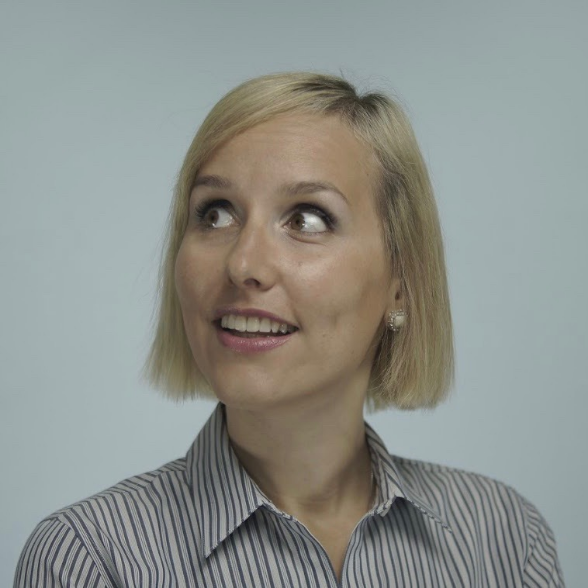
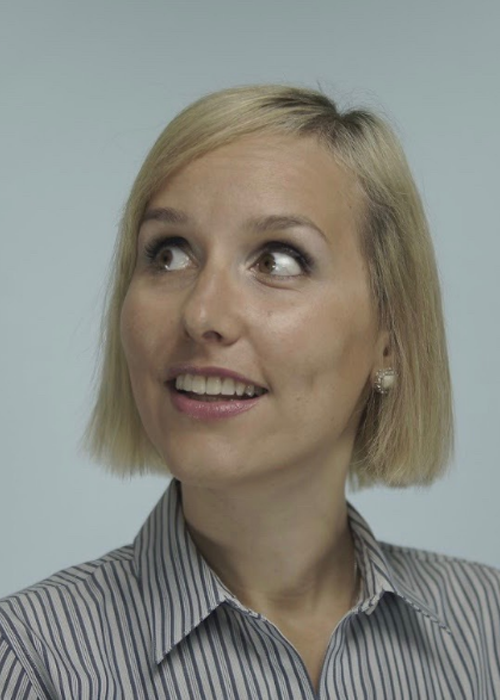
CGW-70: Old images were removed, new images were added.

diff --git a/_posts/2016-10-15-Tim-Byrne.md b/_posts/2016-10-15-Tim-Byrne.md
@@ -9,6 +9,6 @@ description: Director of Marketing
 twitter: https://twitter.com/timbyr
 linkedin: https://www.linkedin.com/in/timbyrne
 email:
-image: assets/images/team/new/TimByrne.jpg
+image: assets/images/team/TimByrne.png
 ---
 As the head of Cresca's Marketing Department, Tim wears many hats. Using a broad skill set developed over the course of an eclectic career, Tim provides strategic solutions and marketing guidance that drive revenue and growth. He is passionate about developing brand identities and delivering engaging creative. Prior to joining Cresca, campaigns he contributed to were recognized with multiple Best of NAMA awards from the National Agri-Marketing Association and two Silver Davey Awards from the Academy of Interactive & Visual Arts. Tim grew up in New York where his family owned several restaurants, sparking his fascination with different foods and cultures. He is a self-professed gastronome who enjoys exploring the ever-evolving Atlanta restaurant scene.

diff --git a/_posts/2016-10-15-Josh-Cunningham.md b/_posts/2016-10-15-Josh-Cunningham.md
@@ -9,6 +9,6 @@ description: Fulfillment Manager
 twitter:
 linkedin:
 email:
-image: assets/images/team/new/JoshCunningham.jpg
+image: assets/images/team/JoshCunningham.png
 ---
 Josh powers Cresca's fulfillment partner, and as the key strategic liaison between the two teams, he ensures that the logistics, warehousing and fulfillment information that Cresca needs to help its clients is readily available. His breakneck pace, constantly positive attitude and get-it-done-now approach are perfect for ensuring that the rhythm and cadence of domestic and international fulfillment continue to flow smoothly, rapidly and reliably. As an expert at Amazon Prime preparation, Josh oversees the efficient production and shipment of all of our clients' FBA freight. He really appreciates a well-architected inventory management solution, but his true passions are sports, music and going on trips that involve sleeping outdoors.

diff --git a/_posts/2016-10-15-Kane-McConnell.md b/_posts/2016-10-15-Kane-McConnell.md
@@ -9,6 +9,6 @@ description: VP of Information Technology
 twitter: https://twitter.com/kanemcconnell
 linkedin: https://www.linkedin.com/in/kanemcconnell
 email:
-image: assets/images/team/new/KaneMcConnell.jpg
+image: assets/images/team/KaneMcConnell.png
 ---
 Kane’s career in IT really started as a 9-year-old boy in Myrtle Beach, SC where his dad was a manager at the local Radio Shack. One weekend he brought home a ZX81, popped in a tape cassette and showed Kane how to access the command prompt. The rest, as they say, is history. Today, Kane not only leads the technology and development efforts at Cresca, he also serves as the director of LAMP Camp where he mentors a diverse group of aspiring developers who help in the creation of client applications. Kane is the proud owner of a Catalina 22 sailing yacht and in his spare time can often be found navigating the peaceful waters of Lake Lanier.

diff --git a/_posts/2016-10-15-Jonathan-Bradley.md b/_posts/2016-10-15-Jonathan-Bradley.md
@@ -9,6 +9,6 @@ description: Fulfillment Specialist
 twitter:
 linkedin:
 email:
-image: assets/images/team/new/JonathanBradley.jpg
+image: assets/images/team/JonathanBradley.png
 ---
 Jonathan's calm and collected nature and unwavering focus allow him to superbly see the process of order fulfillment through from start to finish. He greases the cogs of fulfillment, partnering with his customer service colleagues to ensure maximum customer satisfaction. There's nothing Jonathan hates more than a package shipped out more than 24 hours after an order is placed. Jonathan also loves animation, illustration and playing guitar. Everyone he meets considers him to be a pretty stand-up guy.

diff --git a/_posts/2016-10-15-Vincent-Hu.md b/_posts/2016-10-15-Vincent-Hu.md
@@ -9,6 +9,6 @@ description: Director of Finance
 twitter:
 linkedin:
 email:
-image: assets/images/team/new/VincentHu.jpg
+image: assets/images/team/VincentHu.png
 ---
 Vincent oversees all of the financial accounting and analysis for Cresca and its clients. With burgeoning operational responsibilities, he manages a team of software developers for the engineering of internal and client software solutions. He also develops applications to automate the handling of financial and operational business challenges. In his free time - or any time, really - Vincent loves playing and watching any form of sportsball.

diff --git a/_posts/2016-10-15-Karen-LaVoy.md b/_posts/2016-10-15-Karen-LaVoy.md
@@ -9,6 +9,6 @@ description: Customer Experience Manager
 twitter:
 linkedin:
 email:
-image: assets/images/team/new/KarenLaVoy.jpg
+image: assets/images/team/KarenLaVoy.png
 ---
 Karen believes that customer service is the backbone of any position, whether or not one connects directly with customers. All roles impact the overall customer experience. She finds it exhilarating to make connections with her colleagues and customers and turn their needs into satisfied realities. Karen supports local community theatre (Lionheart Theatre in Norcross is a favorite) and is the self-titled Best Aunt In The World.

diff --git a/_posts/2016-10-15-Mischelle-Curtin.md b/_posts/2016-10-15-Mischelle-Curtin.md
@@ -9,6 +9,6 @@ description: Software Developer
 twitter:
 linkedin:
 email:
-image: assets/images/team/new/MischelleCurtin.jpg
+image: assets/images/team/MischelleCurtin.png
 ---
 Mischelle's analytical mind and IT background coupled with her love of puzzles and complex gaming make her a great partner in the pursuit of development excellence. She loves wrestling with and thinking through big problems and breaking them down into coded solutions with elegent simplicity.

diff --git a/_posts/2016-10-15-Robert-Kovacs.md b/_posts/2016-10-15-Robert-Kovacs.md
@@ -9,6 +9,6 @@ description: Software Developer
 twitter:
 linkedin:
 email:
-image: assets/images/team/new/RobertKovacs.jpg
+image: assets/images/team/RobertKovacs.png
 ---
 With a strong background in Javascript programming, front end design and UX/UI, Robert brings a critical vantage point to the IT team. Robert comes from Hungary, and lives with his wife, who does fascinating research that we can't talk about, or else...

diff --git a/_posts/2016-10-15-Patrick-Scholes.md b/_posts/2016-10-15-Patrick-Scholes.md
@@ -1,7 +1,7 @@
 ---
 layout: member
 category: team
-active: no
+active: active
 date: 2015-03-08
 first-name: Patrick
 last-name: Scholes

diff --git a/_posts/2016-10-15-Zoltan-Bodnar.md b/_posts/2016-10-15-Zoltan-Bodnar.md
@@ -1,7 +1,7 @@
 ---
 layout: member
 category: team
-active: no
+active: active
 date: 2015-03-01
 first-name: Zoltán
 last-name: Bodnár

diff --git a/_posts/2016-10-15-Tiffany-Dingle.md b/_posts/2016-10-15-Tiffany-Dingle.md
@@ -1,7 +1,7 @@
 ---
 layout: member
 category: team
-active: no
+active: active
 date: 2015-03-04
 first-name: Tiffany
 last-name: Dingle

diff --git a/_posts/2016-10-15-Ashley-Taylor.md b/_posts/2016-10-15-Ashley-Taylor.md
@@ -1,7 +1,7 @@
 ---
 layout: member
 category: team
-active: no
+active: active
 date: 2015-03-22
 first-name: Ashley
 last-name: Taylor
